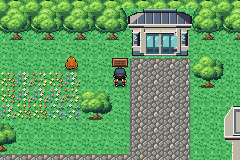
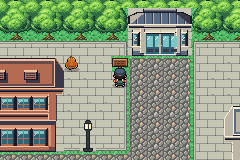
Saffron's 21 changed test screens accepted; story step 290 walks round the new office
The 21 Saffron replay tests whose screen changed show the paved city and its new buildings; every one still ends on
its map, block and words. The story check's walk down to the south gate (step 290) went through the park's south side,
where a brick office stands now: it goes down the pavement beside the avenue instead.

Claude-Session: https://claude.ai/code/session_01XMJF17U18XtbfGGgKpeJmb

diff --git a/project/scripts/story_check.py b/project/scripts/story_check.py
@@ -933,7 +933,7 @@ STEPS = [
          inputs=f"DOWN*{hold(2)}, wait 300", expect=dict(map="SaffronCity_Frlg", xy=(17, 18))),
     # Cinnabar next. Without Fly the way there is the sea: down to Fuchsia by Routes 6, 11 and 12, then Surf
     dict(name="saffron-south", what="Down Saffron to its south gate (its guard drank the Tea too)",
-         via=[(17, 38), (18, 38), (18, 44)], walk=(29, 44), inputs=f"DOWN*{hold(2)}, wait 250",
+         via=[(17, 38), (27, 38), (27, 44)], walk=(29, 44), inputs=f"DOWN*{hold(2)}, wait 250",
          expect=dict(map="Route6_NorthEntrance_Frlg")),
     dict(name="route6-again", what="Through the gate and out onto Route 6", walk=(4, 8),
          inputs=f"DOWN*{hold(2)}, wait 250",
